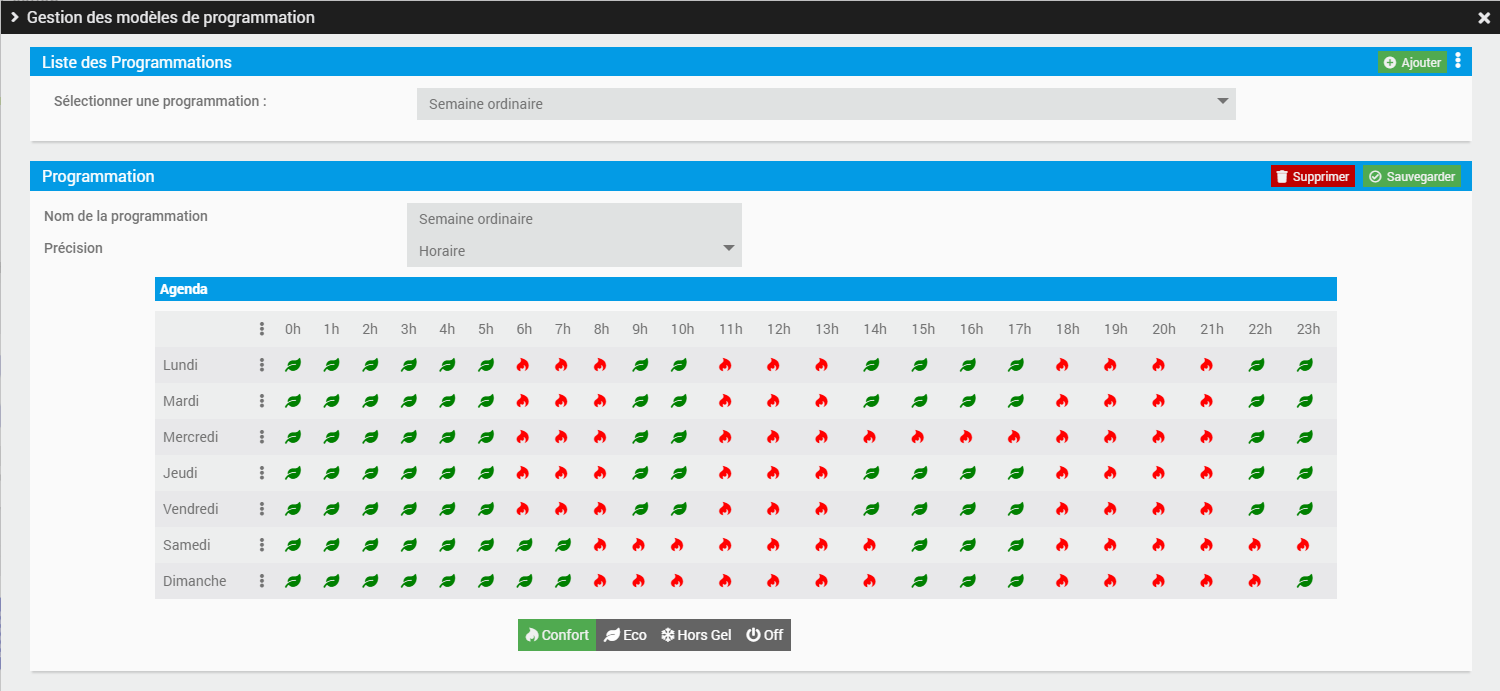
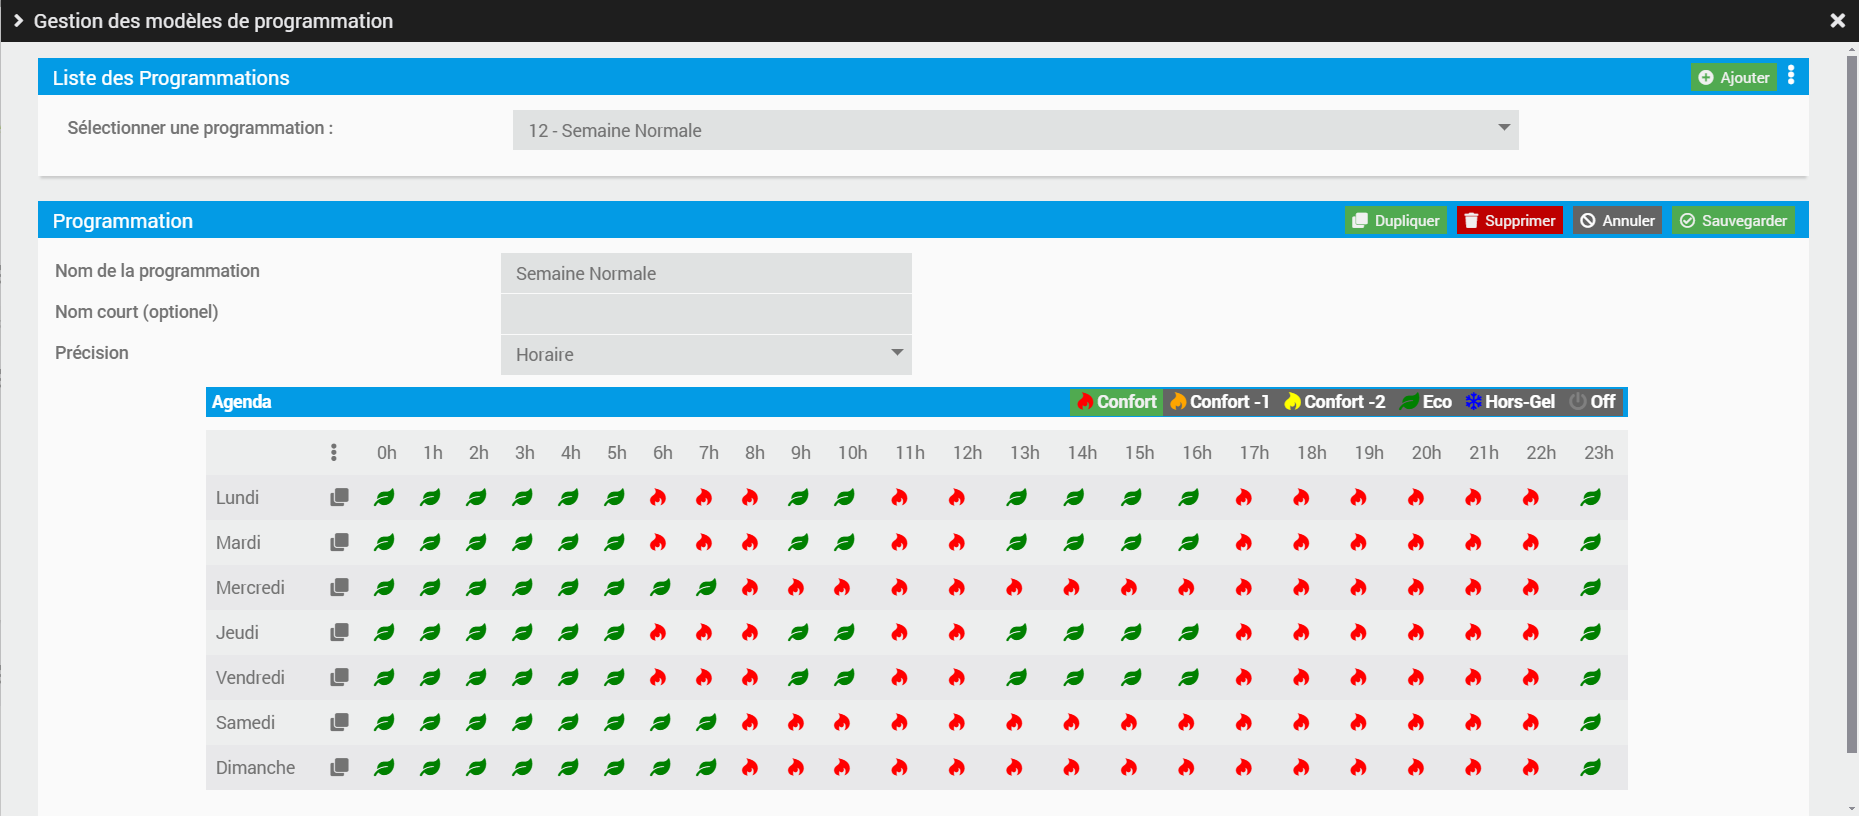
Update documentation

Changed region(s): [[0.0, 0.0, 1.0, 0.9421], [0.1227, 0.8813, 0.8587, 0.9725], [0.0307, 0.4255, 0.0613, 0.4559]]

diff --git a/README.md b/README.md
@@ -80,9 +80,11 @@ La seconde partie contient :
  
 #### Sélection du programme automatique
 
-En utilisant le bouton en bas à gauche ![selection de la programmation](docs/images/bouton_programme.png), une fenêtre additionnelle aparait et permet de configurer le programme associé au radiateur.
+En utilisant le bouton en bas à gauche ![selection de la programmation](docs/images/bouton_programme.png), une fenêtre additionnelle apparait et permet de configurer le programme associé au radiateur.
 
 ![Widget custom](docs/images/radiateur_show_select_prog.png) ![Widget custom](docs/images/radiateur_show_select_prog_2.png)
+
+Le bouton illustré par une clé à mollette permet d'ouvrir la fenêtre de configuration des programmes afin soit de vérifier rapidement la nature du programme configuré, soit de modifier celui-ci.
 
 #### Création, suppression et visualisation des déclenchements unitaires programmés
 
@@ -155,13 +157,30 @@ Le plugin arrive avec une programmation par défaut qu'il n'est pas possible de 
 
 Il est ensuite possible de créer des programmations personnalisées.
 
-La configuration des modes de chauffage en fonction des heures se fait simplement en cliquant sur les icônes des modes. A chaque click le mode suivant est proposé. Il est aussi possible de choisir le mode par les boutons se trouvant en dessous, puis de clicker sur les plages horaires.
+La configuration des modes de chauffage en fonction des heures se fait simplement en cliquant sur les icônes des modes. A chaque click le mode suivant est proposé. Il est aussi possible de choisir le mode par les boutons se trouvant dans l'entête du tableau, puis de clicker sur les plages horaires.
+
+La liste des modes affichés est automatiquement crée et correspond aux modes réellement activés dans les radiateurs. Cela permet d'alléger l'utilisation, en particulier pour ceux qui n'utilisent pas par exemple les modes confort -1 et confort -2. 
 
 N'oublez pas de sauvegarder avant de quitter.
 
 Configuration des plages horaires :
 
 ![Programmation](docs/images/programmation_1.png)
+
+Deux modes horaires sont possibles : soit par incrément de 1h, soit par incrément d'une 1/2 heure. Il est possible de passer de l'un à l'autre. Cependant lorsque l'on passe du mode 1/2h vers le mode 1h, la valeur retenue est celle de la première 1/2h, la seconde étant alors perdue.
+
+Configuration des plages horaires en mode 1/2h :
+
+![Programmation](docs/images/programmation_2.png)
+
+Pour ne pas avoir à refaire toutes les journées, une par une, un menu "d'outils" est disponible à droite du nom de chaque jour, il permet de copier la programmation d'une ligne déjà faite. Ou de réinitialiser toute la ligne.
+
+![Programmation](docs/images/programmation_3.png)
+
+Il est possible aussi de réinitialiser tous les jours d'un coup :
+
+![Programmation](docs/images/programmation_4.png)
+
 
 ### Utilisation des plages horaires
 
